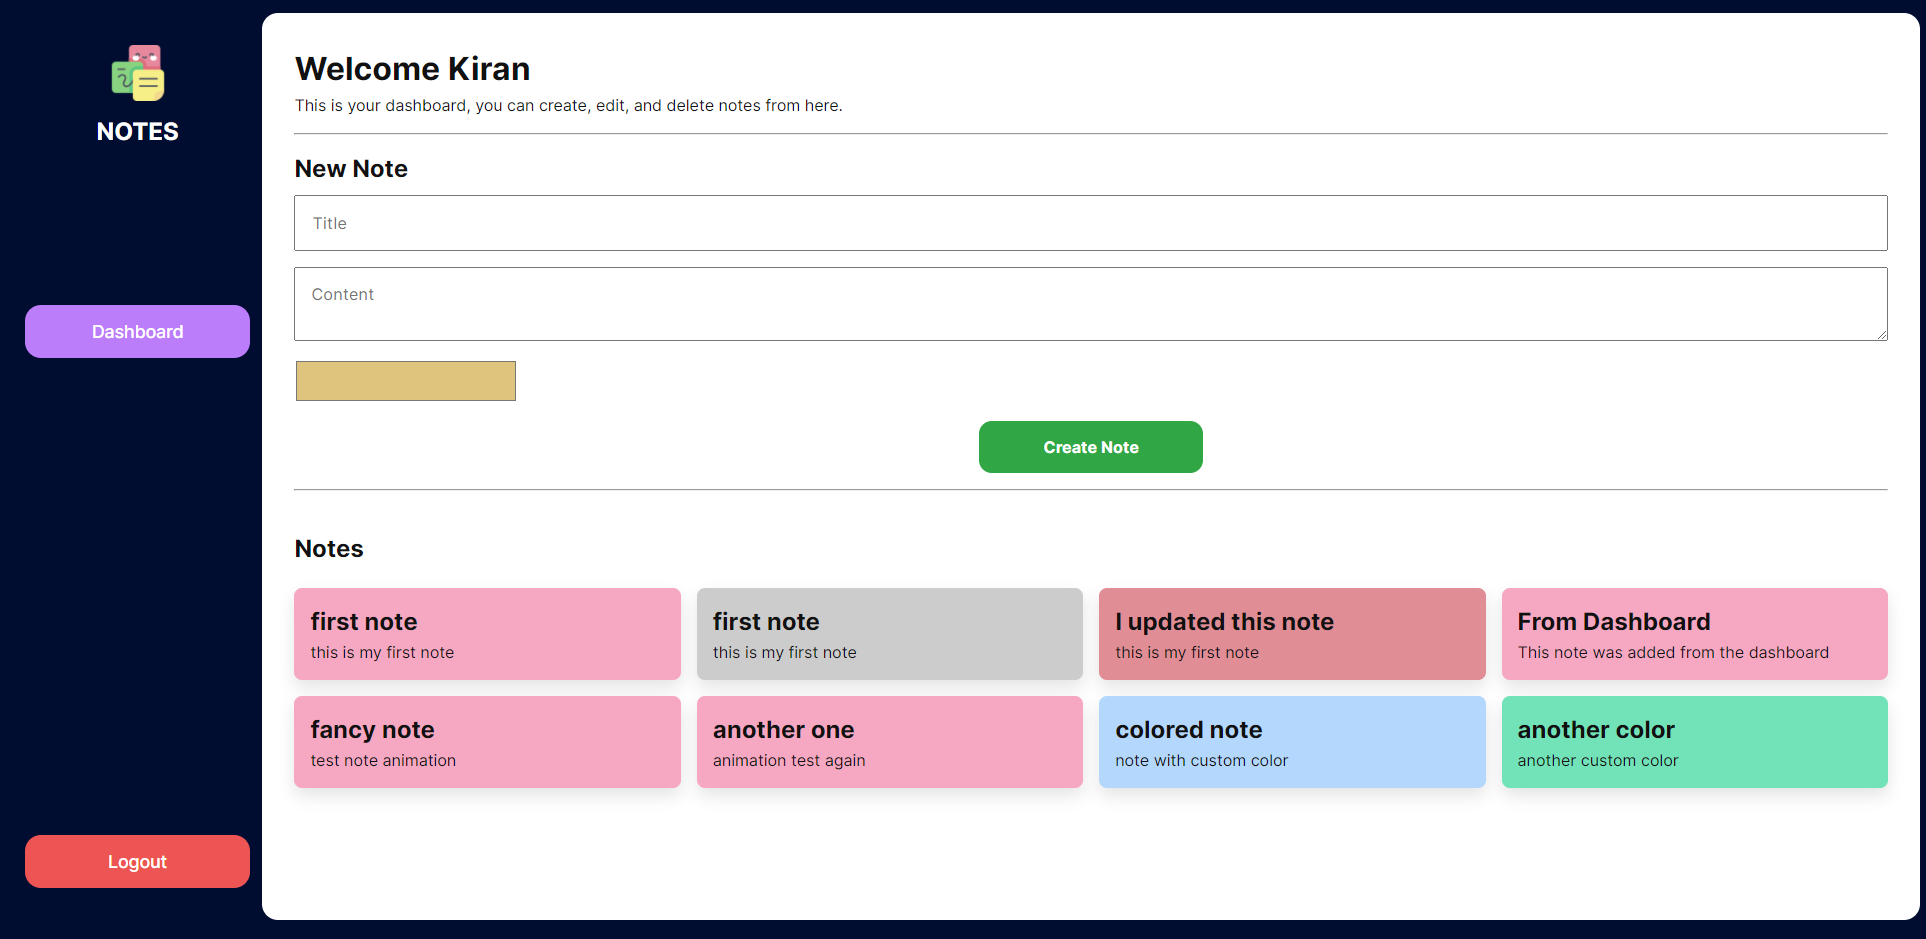
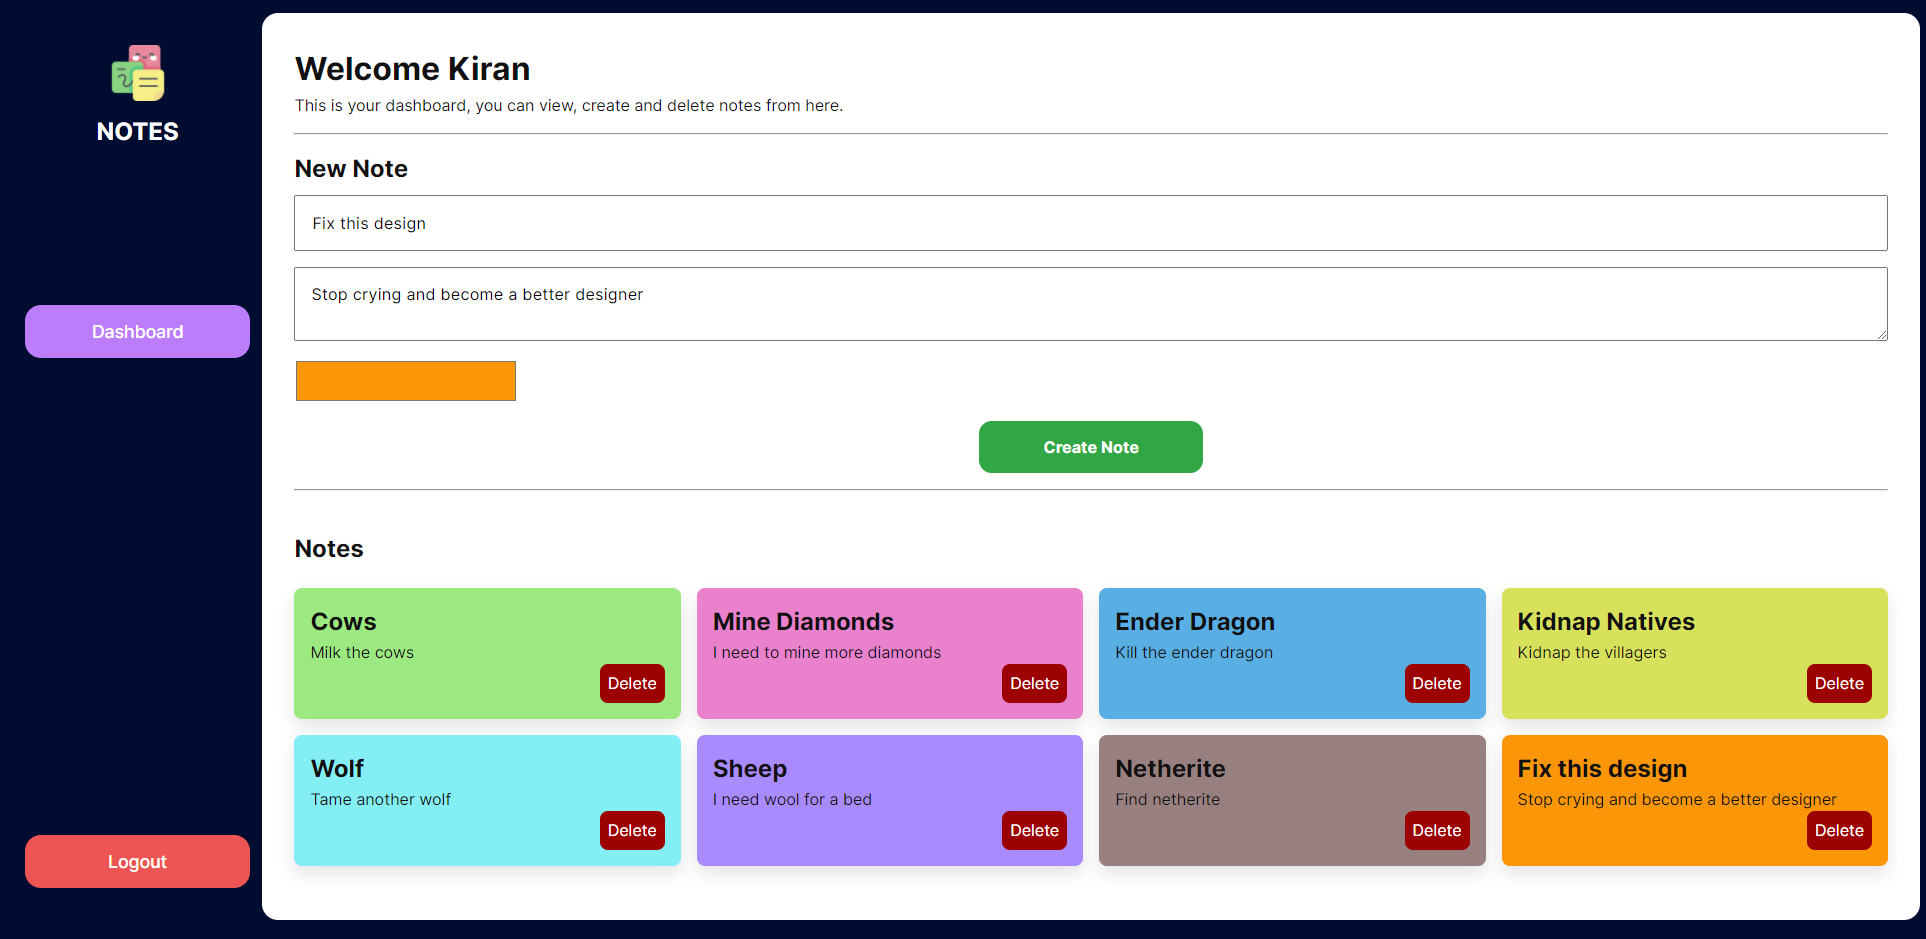
delete function

diff --git a/client/src/components/Note.js b/client/src/components/Note.js
@@ -1,12 +1,23 @@
 import { motion } from 'framer-motion';
 import React from 'react';
+import { useDispatch } from 'react-redux';
 import styled from 'styled-components';
+import { removeNote } from '../redux/actions/noteActions';
 
 const Note = ({ note }) => {
+    const dispatch = useDispatch();
+
+    const handleDelete = () => {
+        dispatch(removeNote(note.id));
+    };
+
     return (
         <StyledNote layout initial={{ opacity: 0 }} animate={{ opacity: 1 }} exit={{ opacity: 0 }} color={note.color}>
             <h1>{note.title}</h1>
             <p>{note.content}</p>
+            <div>
+                <button onClick={handleDelete}>Delete</button>
+            </div>
         </StyledNote>
     );
 };
@@ -16,6 +27,28 @@ const StyledNote = styled(motion.div)`
     padding: 1rem;
     border-radius: 0.5rem;
     box-shadow: 0 0.5rem 1rem rgba(0, 0, 0, 0.1);
+
+    display: flex;
+    flex-direction: column;
+
+    > div {
+        margin-left: auto;
+
+        button {
+            background: #9c0202;
+            border: none;
+            color: #fff;
+            font-size: 1rem;
+            padding: 0.6rem 0.5rem;
+            border-radius: 0.5rem;
+            transition: all 200ms;
+            cursor: pointer;
+
+            &:hover {
+                background: #bf0202;
+            }
+        }
+    }
 `;
 
 export default Note;

diff --git a/client/src/redux/actions/noteActions.js b/client/src/redux/actions/noteActions.js
@@ -25,6 +25,29 @@ export const getNotes = () => {
     };
 };
 
+export const removeNote = (id) => {
+    return (dispatch) => {
+        axios
+            .delete(`http://localhost:5000/notes/${id}`, setHeaders())
+            .then((response) => {
+                const { id } = response.data;
+
+                dispatch({
+                    type: 'REMOVE_NOTE',
+                    id,
+                });
+            })
+            .catch((error) => {
+                if (error.response) {
+                    console.log(error.response);
+                    toast.error(error.response.data.message, {
+                        position: toast.POSITION.BOTTOM_RIGHT,
+                    });
+                }
+            });
+    }
+}
+
 export const addNote = (title, content, color) => {
     return (dispatch) => {
         axios

diff --git a/client/src/pages/Dashboard.js b/client/src/pages/Dashboard.js
@@ -16,12 +16,12 @@ const Dashboard = () => {
     useEffect(() => {
         dispatch(loadUser());
         dispatch(getNotes());
-    }, []);
+    }, [notes]);
 
     return (
         <Wrapper>
             <h1>Welcome {auth.firstName}</h1>
-            <p>This is your dashboard, you can create, edit, and delete notes from here.</p>
+            <p>This is your dashboard, you can view, create and delete notes from here.</p>
             <hr />
 
             <Section>

diff --git a/client/src/redux/reducers/notesReducer.js b/client/src/redux/reducers/notesReducer.js
@@ -11,6 +11,8 @@ const noteReducer = (state = initialState, action) => {
             return action.notes;
         case 'ADD_NOTE':
             return [...state, action.note];
+        case 'REMOVE_NOTE':
+            return state.filter((note) => note.id !== action.id);
         case 'CLEAR_NOTES':
             return [];
         default:

diff --git a/README.md b/README.md
@@ -6,8 +6,12 @@
 ![Signup Image](signup-preview.png)
 ---
 
-## __Features__
+### __TODO__
+- [❌] Allow note updating
+- [❌] Note categorization into notes
 
+
+## __Features__
 - ## Backend
     - REST API
     - JWT Authentication
